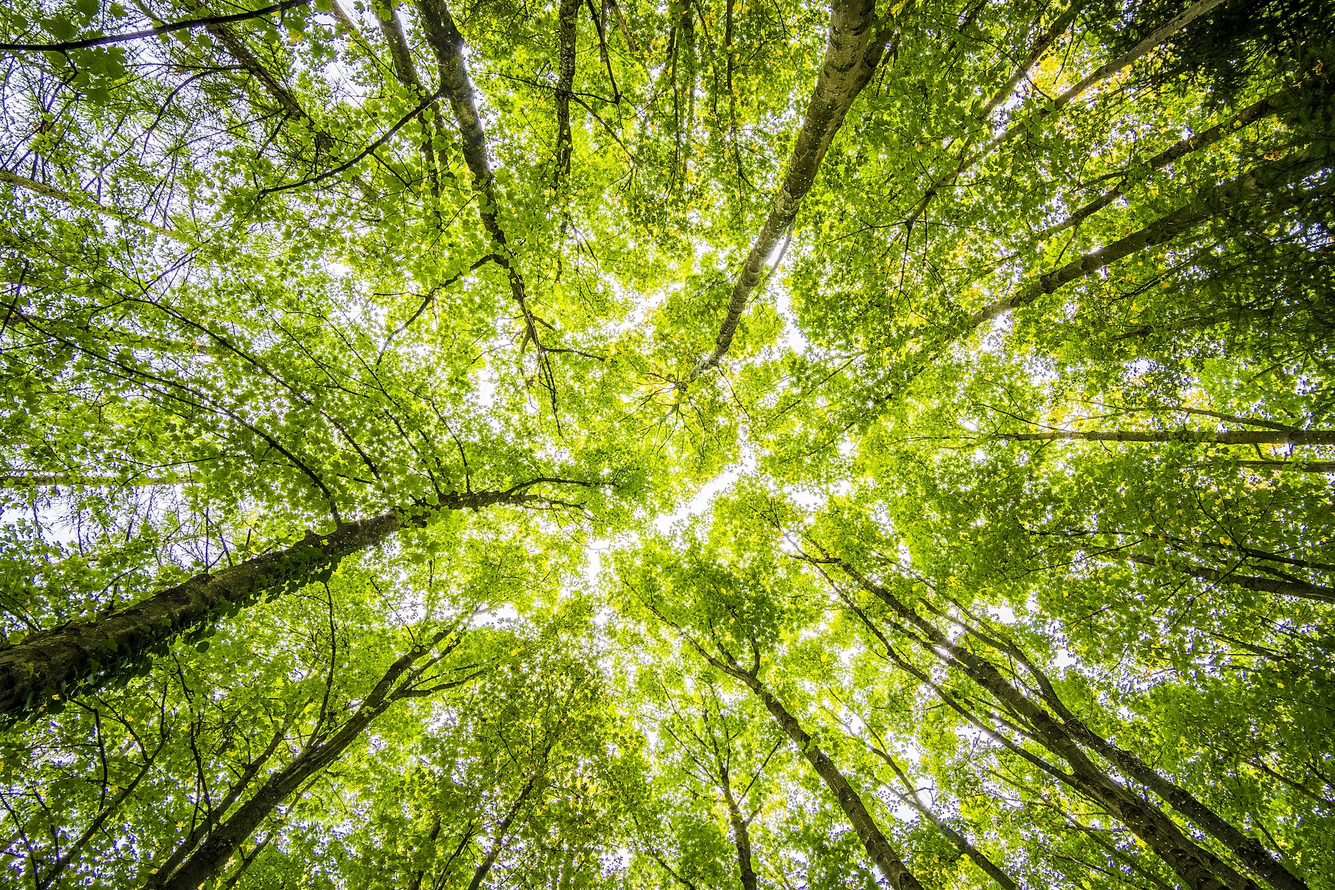
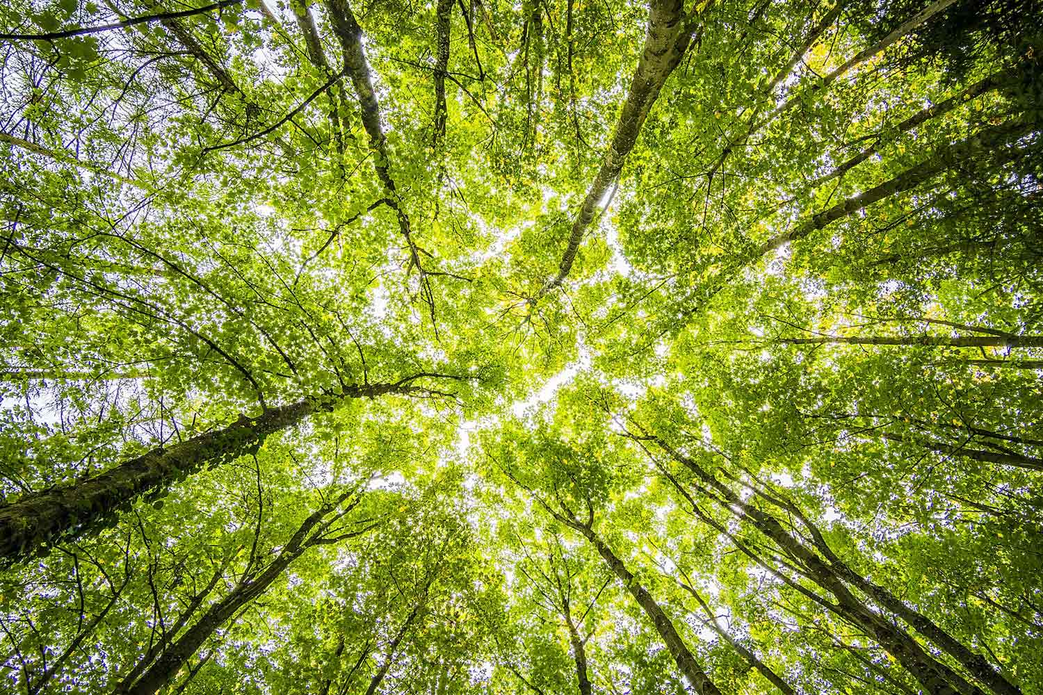
optimize background images

diff --git a/src/components/Intro.vue b/src/components/Intro.vue
@@ -3,26 +3,90 @@
         <div class="feature-card">
             <h1>Easily Identify Trees in Pennsylvania</h1>
             <h1>How it works:</h1>
-            <p><span>Step 1: </span>Find a Tree</p>
-            <p><span>Step 2: </span> Open the menu and select the tree's features</p>
-            <p><span>Step 3: </span> Click "View Results" to find a listing of possible matches</p>
-            <p><span>Step 4: </span> Click on a tree in the list to see more information</p>
+            <p><span>Step 1: </span> Open the menu and select the tree's features</p>
+            <p><span>Step 2: </span> Click "View Results" to find a listing of possible matches</p>
+            <p><span>Step 3: </span> Click on a tree in the list to see more information</p>
             <button @click="toggleMenu">Begin the Journey</button>
         </div>
     </div>
 </template>
 
 <script>
-    import { mapState } from 'vuex';
 
-    export default {
-        name: 'Intro',
-        methods: {
-                toggleMenu() {
+
+import { mapState, mapGetters } from 'vuex';
+
+export default {
+  name: 'Intro',
+  watch: {
+    '$route': {
+      immediate: true,
+      handler() {
+          this.updateBodyBackground();
+      }
+    }
+  },
+  methods: {
+    toggleMenu() {
                 this.$store.commit('toggleMenu');
-            },
-        }
-        }
+    },
+    updateBodyBackground() {
+      // First set the blurred image
+      
+      // document.body.style.backgroundImage = `url(${this.blurredBackground})`;
+      document.getElementById("background").style.backgroundImage = `url(../img/bg_forest3_small.jpg)`;
+
+      // Then load the full image
+      this.loadFullImage();
+    },
+    loadFullImage() {
+      const img = new Image();
+      img.src = this.fullBackground;
+      img.onload = () => {
+          // On image load, set the full background image
+          // document.body.style.backgroundImage = `url(${img.src})`;
+          // document.body.classList.add('background-fade-in');
+          document.getElementById("background").style.backgroundImage = `url(../img/bg_forest3.jpg)`;
+          document.getElementById("background").classList.add('background-fade-in');
+      };
+    },
+  },
+  computed: {
+    blurredBackground() {
+        // Assuming you have a low-res version of the default background
+        const defaultBlurredImageUrl = '/img/bg_forest3_small.jpg';
+        
+        return this.tree && this.tree.backgroundSmall ? `/img/${this.tree.backgroundSmall}` : defaultBlurredImageUrl;
+    },
+    fullBackground() {
+        // Your existing logic to determine the URL of the full background
+        const defaultImageUrl = '/img/bg_forest3.jpg';
+        return this.tree && this.tree.background ? `/img/${this.tree.background}` : defaultImageUrl;
+    },
+    isAnyFilterSelected() {
+      return [
+        this.selectedTypes, 
+        this.selectedNeedles, 
+        this.selectedLeafTypes, 
+        this.selectedLeafAttachments, 
+        this.selectedFallColors, 
+        this.selectedCompoundStructures, 
+        this.selectedClusters
+      ].some(array => array && array.length > 0);
+    },  
+    ...mapState([
+        // If you have these as root state properties
+        'selectedTypes',
+        'selectedNeedles',
+        'selectedClusters',
+        'selectedLeafTypes',
+        'selectedCompoundStructures',
+        'selectedLeafAttachments',
+        'selectedFallColors'
+    ]),
+  },
+ 
+};
         
     
 </script>

diff --git a/src/views/Home.vue b/src/views/Home.vue
@@ -6,60 +6,19 @@
 
 
 <script>
-import Trees from '../components/Trees'
-import Intro from '../components/Intro'
+  import Trees from '../components/Trees'
+  import Intro from '../components/Intro'
 
-import { mapState, mapGetters } from 'vuex';
+  import { mapState } from 'vuex';
 
-export default {
-  name: 'Home',
-  components: {
-    Intro,
-    Trees,
-  },
-  watch: {
-    '$route': {
-      immediate: true,
-      handler() {
-          this.updateBodyBackground();
-      }
-    }
-  },
-  methods: {
-    updateBodyBackground() {
-      // First set the blurred image
-      
-      // document.body.style.backgroundImage = `url(${this.blurredBackground})`;
-      document.getElementById("background").style.backgroundImage = `url(../img/bg_pexels16_small.jpg)`;
-
-      // Then load the full image
-      this.loadFullImage();
+  export default {
+    name: 'Home',
+    components: {
+      Intro,
+      Trees,
     },
-    loadFullImage() {
-      const img = new Image();
-      img.src = this.fullBackground;
-      img.onload = () => {
-          // On image load, set the full background image
-          // document.body.style.backgroundImage = `url(${img.src})`;
-          // document.body.classList.add('background-fade-in');
-          document.getElementById("background").style.backgroundImage = `url(../img/bg_pexels16.jpg)`;
-          document.getElementById("background").classList.add('background-fade-in');
-      };
-    },
-  },
-  computed: {
-    blurredBackground() {
-        // Assuming you have a low-res version of the default background
-        const defaultBlurredImageUrl = '/img/bg_forest3_small.jpg';
-        
-        return this.tree && this.tree.backgroundSmall ? `/img/${this.tree.backgroundSmall}` : defaultBlurredImageUrl;
-    },
-    fullBackground() {
-        // Your existing logic to determine the URL of the full background
-        const defaultImageUrl = '/img/bg_forest3.jpg';
-        return this.tree && this.tree.background ? `/img/${this.tree.background}` : defaultImageUrl;
-    },
-    isAnyFilterSelected() {
+    computed: {
+      isAnyFilterSelected() {
       return [
         this.selectedTypes, 
         this.selectedNeedles, 
@@ -69,16 +28,8 @@ export default {
         this.selectedCompoundStructures, 
         this.selectedClusters
       ].some(array => array && array.length > 0);
-    },  
-    // Using mapState
-        ...mapState({
-            trees: state => state.trees,
-        }),
-        // Using mapGetters
-        ...mapGetters([
-            'getFilteredTrees', // Assuming 'getFilteredTrees' is a getter in your store
-        ]),
-        ...mapState([
+    }, 
+    ...mapState([
             // If you have these as root state properties
             'selectedTypes',
             'selectedNeedles',
@@ -90,18 +41,6 @@ export default {
 
             // ... other filter states
         ]),
-        filteredTreeCount() {
-            return this.$store.getters.getFilteredTreeCount(
-            this.selectedTypes,
-            this.selectedNeedles,
-            this.selectedClusters,
-            this.selectedLeafTypes,
-            this.selectedCompoundStructures,
-            this.selectedLeafAttachments,
-            this.selectedFallColors
-            );
-        },
-  },
- 
-};
+    }
+  }
 </script>
